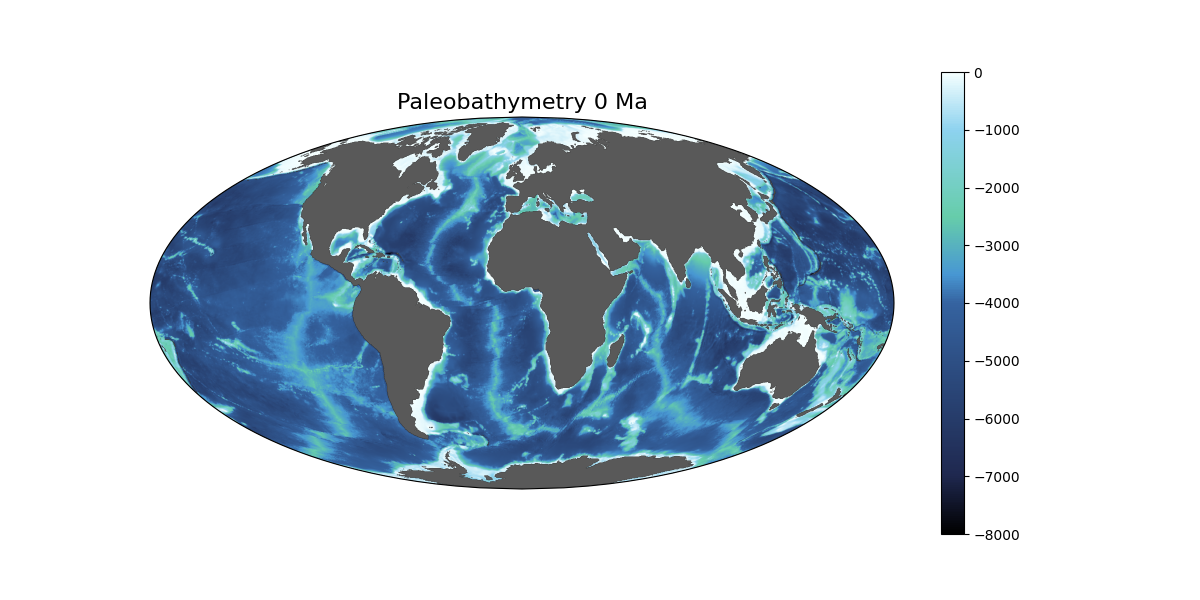
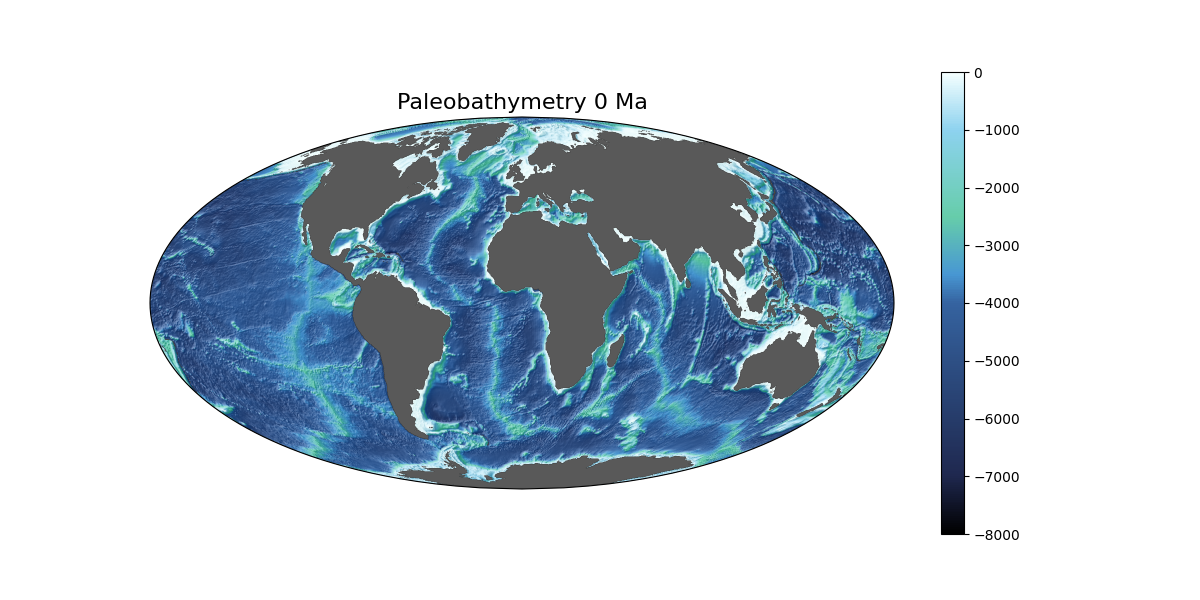
Document hillshading of paleobathymetry.
Also update screenshots to include hillshading.

diff --git a/docs/pybacktrack_paleo_bathymetry.rst b/docs/pybacktrack_paleo_bathymetry.rst
@@ -139,6 +139,25 @@ Note the difference at 60 Ma in the merged paleobathymetry (compared to the unme
 For example, the region west of the Americas is now filled with traditional paleobathymetry.
 This region exists at 60 Ma but will be subducted at present day.
 
+Hillshaded paleobathymetry
+^^^^^^^^^^^^^^^^^^^^^^^^^^
+
+The above images show paleobathymetry with hillshading applied to display a 3D visualisation of the 2D bathymetry as if a directional light source was shining on it.
+In those images (generated using the `Paleobathymetry <https://github.com/EarthByte/pyBacktrack/blob/master/pybacktrack/notebooks/paleobathymetry.ipynb>`__ notebook)
+the pyGMT function ``pygmt.grdgradient`` was used to compute directional derivatives from the paleobathymetry grid in the direction (azimuth) of a light source.
+Assuming no ambient term, the directional derivatives are positive when the bathymetry slope is facing towards the light source (and negative when facing away).
+These directional derivatives are then used to modify the RGB colours of the colour-mapped bathymetry to give a sense of shading from a directional light source.
+
+.. note:: For ``pygmt.grdgradient``, it is recommended to specify a gradient normalization using the cumulative *Laplace* distribution (eg, ``e0.5``) instead of the cumulative *Cauchy* distribution (eg, ``t0.5``)
+          as shown in the `Paleobathymetry <https://github.com/EarthByte/pyBacktrack/blob/master/pybacktrack/notebooks/paleobathymetry.ipynb>`__ notebook.
+
+          Using the latter (*Cauchy*) distribution results in crisp hillshading at present day, but fades to indistinct shading at past geological times.
+          This is because the former (*Laplace*) distribution puts the bulk of the gradient values within the flat part of the distribution whereas the latter (*Cauchy*) distribution puts them in the steep middle part.
+          As we go back in geological time, the backtracked bathymetry (generated by pyBacktrack) is gradually replaced by traditional bathymetry.
+          The backtracked bathymetry contains the higher detail of present-day bathymetry compared to traditional bathymetry.
+          And so the change in gradient distribution from one time to the next results in less amplification when using the cumulative *Laplace* distribution (being in the flat part of the distribution).
+          As a result the fade from crisp hillshading at present day to indistinct at past times is much less noticeable.
+
 .. _pybacktrack_paleo_bathymetry_gridding_procedure:
 
 Paleobathymetry gridding procedure
